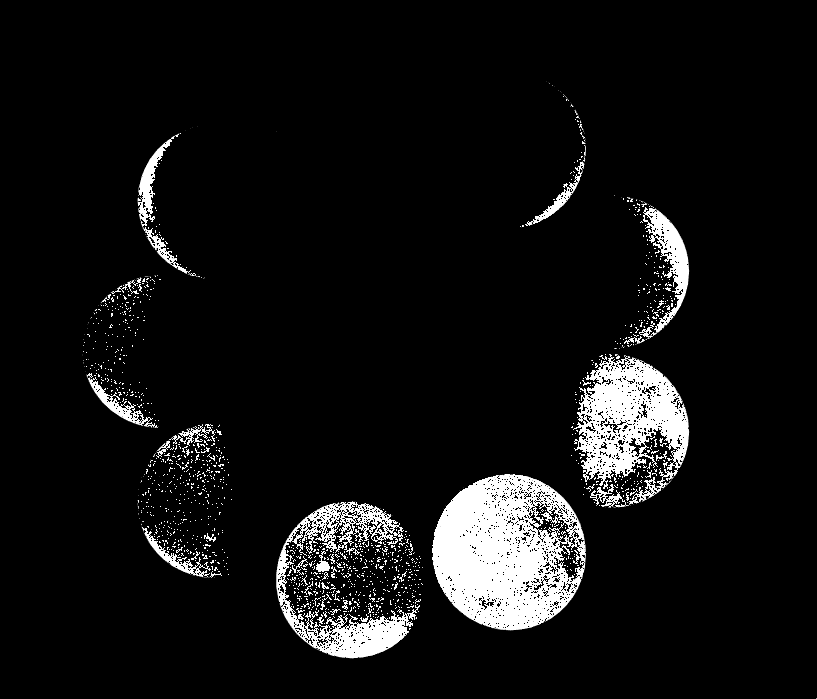
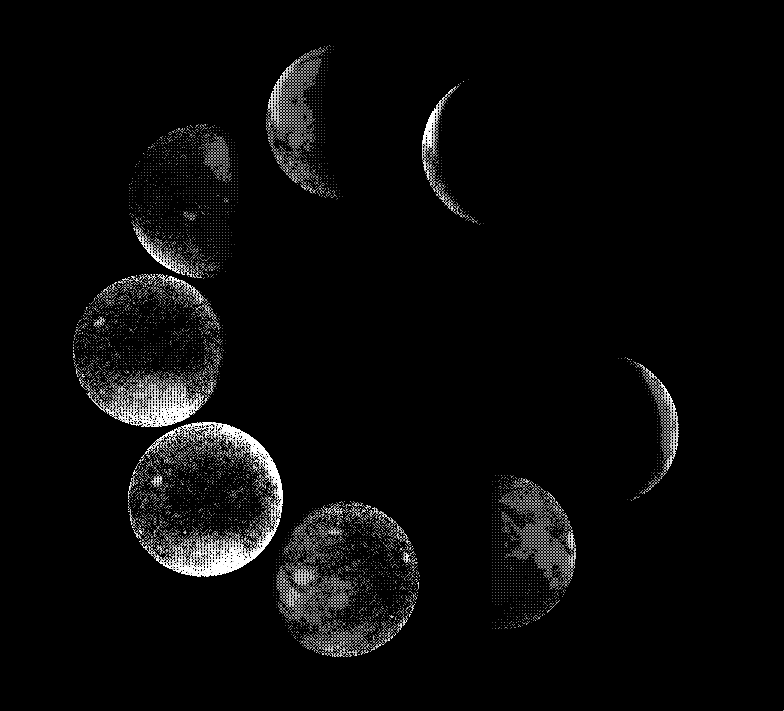
[snapshot]

diff --git a/index.js b/index.js
@@ -15,20 +15,24 @@ var resl = require("resl");
 
 resl({
   manifest: {
-    // day: { type: "image", src: "day.jpg" },
-    // night: { type: "image", src: "night.jpg" },
-    // clouds: { type: "image", src: "clouds.jpg" },
     moon: { type: "image", src: "moon_small.jpg" }
   },
   onDone: onloaded
 });
 
 // onloaded({
-//   day: fs.readFileSync("day.jpg"),
-//   night: fs.readFileSync("night.jpg"),
-//   clouds: fs.readFileSync("clouds.jpg"),
 //   moon: jpeg.decode(fs.readFileSync("moon.jpg"))
 // });
+
+// create fbo. We set the size in `regl.frame`
+const fbo = regl.framebuffer({
+  color: regl.texture({
+    width: 1,
+    height: 1,
+    wrap: "clamp"
+  }),
+  depth: true
+});
 
 function onloaded(assets) {
   // console.dir(assets.moon);
@@ -36,40 +40,62 @@ function onloaded(assets) {
   var drawEarth = opts => {
     return earth(regl, {
       textures: {
-        // day: regl.texture({
-        //   data: assets.day,
-        //   mag: "linear"
-        // }),
-        // night: regl.texture({
-        //   data: assets.night,
-        //   mag: "linear"
-        // }),
-        // clouds: regl.texture({
-        //   data: assets.clouds,
-        //   mag: "linear"
-        // }),
         moon: regl.texture({
           data: assets.moon,
           mag: "linear"
           // ...assets.moon
         })
       },
+
       ...opts
     });
   };
-  // var earths = [
-  //   drawEarth({ x: -1, y: -1, t_offset: amt * 0 }),
-  //   drawEarth({ x: -1, y: 0, t_offset: amt * 1 }),
-  //   drawEarth({ x: -1, y: 1, t_offset: amt * 2 }),
 
-  //   drawEarth({ x: 0, y: -1, t_offset: amt * 3 }),
-  //   drawEarth({ x: 0, y: 0, t_offset: amt * 4 }),
-  //   drawEarth({ x: 0, y: 1, t_offset: amt * 5 }),
+  const drawFboBlurred = regl({
+    frag: glsl`
+    precision mediump float;
+varying vec2 uv;
+uniform sampler2D tex;
+uniform float wRcp, hRcp;
+uniform vec2 resolution;
 
-  //   drawEarth({ x: 1, y: -1, t_offset: amt * 6 }),
-  //   drawEarth({ x: 1, y: 0, t_offset: amt * 7 }),
-  //   drawEarth({ x: 1, y: 1, t_offset: amt * 8 })
-  // ];
+#define R int(0)
+
+// clang-format off
+// #pragma glslify: dither = require(glsl-dither)
+// #pragma glslify: dither = require(glsl-dither/8x8)
+// #pragma glslify: dither = require(glsl-dither/4x4)
+#pragma glslify: dither = require(glsl-dither/2x2)
+// clang-format on
+
+void main() {
+  vec4 color = texture2D(tex, uv);
+
+  gl_FragColor = dither(gl_FragCoord.xy/1.5, color);
+}`,
+    vert: `
+    precision mediump float;
+    attribute vec2 position;
+    varying vec2 uv;
+    void main() {
+      uv = 0.5 * (position + 1.0);
+      gl_Position = vec4(position, 0, 1);
+    }`,
+    attributes: {
+      position: [-4, -4, 4, -4, 0, 4]
+    },
+    uniforms: {
+      tex: ({ count }) => fbo,
+      resolution: ({ viewportWidth, viewportHeight }) => [
+        viewportWidth,
+        viewportHeight
+      ],
+      wRcp: ({ viewportWidth }) => 1.0 / viewportWidth,
+      hRcp: ({ viewportHeight }) => 1.0 / viewportHeight
+    },
+    depth: { enable: false },
+    count: 3
+  });
   var amt = 1.5;
 
   var n = 9;
@@ -83,10 +109,17 @@ function onloaded(assets) {
         t_offset: amt * i
       })
     );
-  regl.frame(function() {
-    regl.clear({ color: [0, 0, 0, 1], depth: true });
+  regl.frame(function({ viewportWidth, viewportHeight }) {
+    fbo.resize(viewportWidth, viewportHeight);
+
+    // regl.clear({ color: [0, 0, 0, 1], depth: true });
     camera(function() {
-      earths.forEach(d => d());
+      fbo.use(() => {
+        regl.clear({ color: [0, 0, 0, 1], depth: true });
+
+        earths.forEach(d => d());
+      });
+      drawFboBlurred();
     });
   });
 }
@@ -115,7 +148,7 @@ function earth(regl, opts) {
           sunpos, // sun position
           22.0, // sun intensity
           1372e3, // planet radius (m)
-          1472e3, // atmosphere radius (m)
+          1572e3, // atmosphere radius (m)
           vec3(5.5e-6,13.0e-6,22.4e-6), // rayleigh scattering
           21e-6, // mie scattering
           8e3, // rayleight scale height
@@ -145,13 +178,14 @@ vec3         c =( (tmoon-0.8)*3.0) * light + vscatter *0.1
           // c = vec3(light);
          vec3 color = pow(c,vec3(1.0/2.2));
 
-         float n =   ((fbm3d(vec3(gl_FragCoord.xy / 4.0, time * 0.0001),2) * 0.5) + 0.5);
+         float n =   ((fbm3d(vec3(gl_FragCoord.xy / 4.0, time * 0.0),2) * 0.5) + 0.5);
         //  color = vec3(n);
           if (luma(color) <  n){
-          color = vec3(0.0);
+          // color = vec3(0.0);
         }else{
-          color = vec3(1.0);
+          // color = vec3(1.0);
         }
+        color = vec3(luma(color));
         gl_FragColor = vec4(color,1.0);
       }
     `,
@@ -185,6 +219,7 @@ vec3         c =( (tmoon-0.8)*3.0) * light + vscatter *0.1
       // night: opts.textures.night,
       // clouds: opts.textures.clouds,
       moon: opts.textures.moon
-    }
+    },
+    framebuffer: fbo
   });
 }
